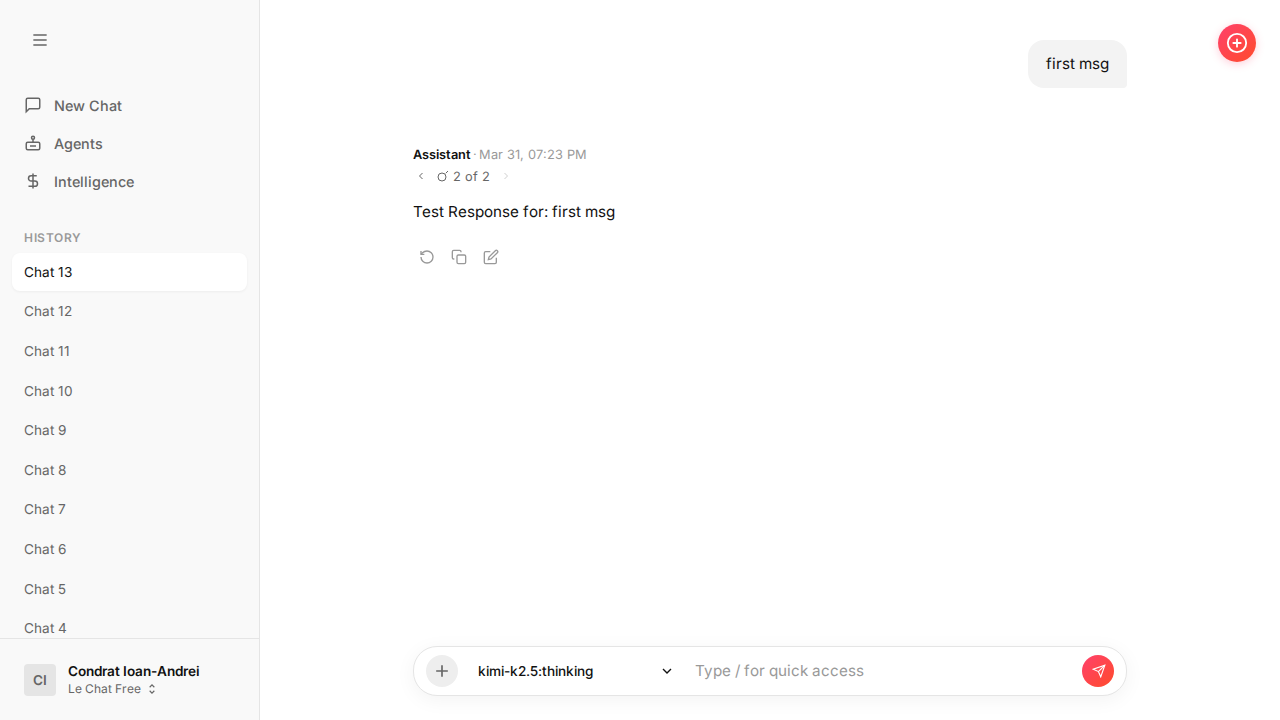
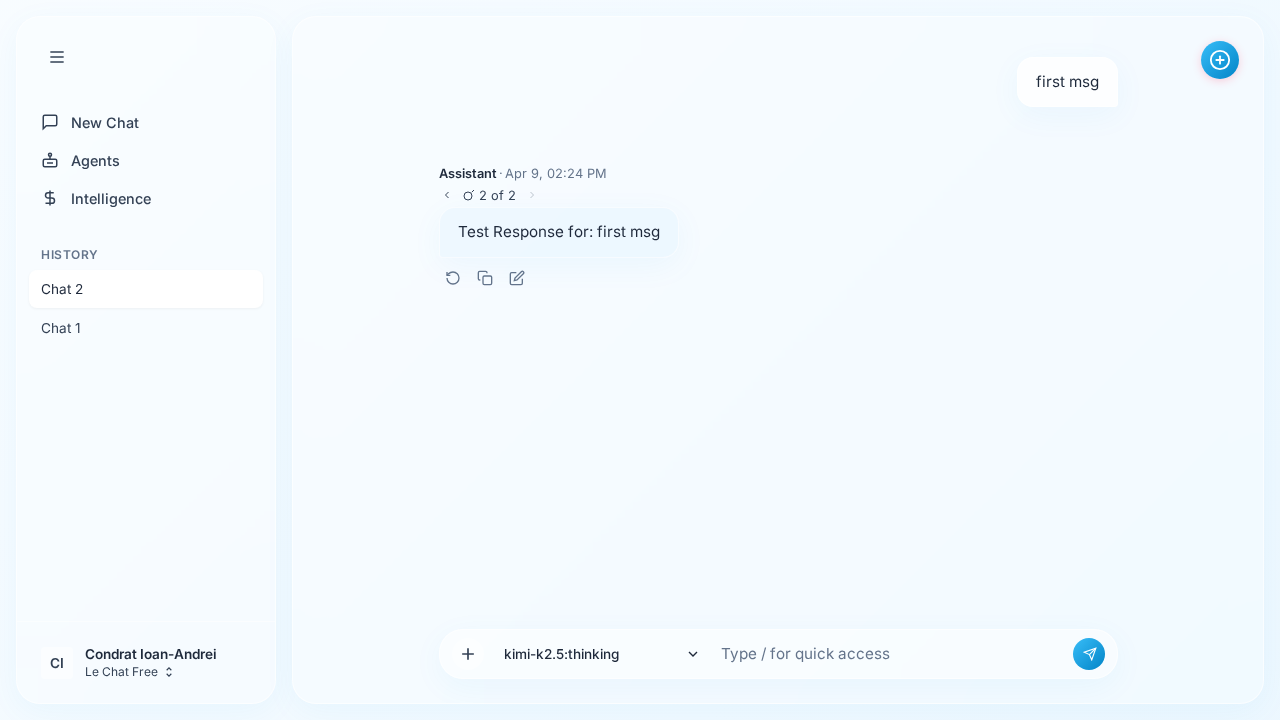
feat(ui): implement modern cold glassmorphism design
- Refactor global CSS variables to cool, icy color palette
- Add animated gradient background shift to body
- Implement floating, detached sidebar and chat area using grid gaps
- Update input console, message bubbles, context menu, and modals with glassmorphism effects (backdrop-filter, semi-transparent backgrounds, subtle white borders)

diff --git a/static/style.css b/static/style.css
@@ -1,16 +1,25 @@
 :root {
-    --bg-color: #ffffff;
-    --sidebar-bg: #f9f9f9;
-    --border-color: #e5e5e5;
-    --text-primary: #111111;
-    --text-secondary: #666666;
-    --text-muted: #999999;
-    --accent-color: #ff4b2b;
-    --gradient-start: #ff416c;
-    --gradient-end: #ff4b2b;
-    --hover-bg: #eeeeee;
-    --user-msg-bg: #f3f3f3;
-    --ai-msg-bg: #ffffff;
+    --bg-color: #e0f2fe;
+    --sidebar-bg: rgba(255, 255, 255, 0.4);
+    --border-color: rgba(255, 255, 255, 0.5);
+    --text-primary: #1e293b;
+    --text-secondary: #334155;
+    --text-muted: #64748b;
+    --accent-color: #0ea5e9;
+    --gradient-start: #38bdf8;
+    --gradient-end: #0284c7;
+    --hover-bg: rgba(255, 255, 255, 0.4);
+
+    /* Glassmorphism Variables */
+    --glass-bg: rgba(255, 255, 255, 0.25);
+    --glass-border: rgba(255, 255, 255, 0.6);
+    --glass-shadow: 0 8px 32px 0 rgba(14, 165, 233, 0.05);
+    --glass-blur: blur(16px);
+
+    --user-msg-glass: rgba(255, 255, 255, 0.65);
+    --ai-msg-glass: rgba(224, 242, 254, 0.45);
+    --overlay-glass-bg: rgba(255, 255, 255, 0.75);
+
     --error-bg: rgba(248, 81, 73, 0.1);
     --error-color: #d73a49;
     --danger-color: #e53935;
@@ -23,9 +32,17 @@
     padding: 0;
 }
 
+@keyframes bgGradientShift {
+    0% { background-position: 0% 50%; }
+    50% { background-position: 100% 50%; }
+    100% { background-position: 0% 50%; }
+}
+
 body {
     font-family: var(--font-family);
-    background-color: var(--bg-color);
+    background: linear-gradient(-45deg, #e0f2fe, #f0f9ff, #ffffff, #e0f2fe);
+    background-size: 400% 400%;
+    animation: bgGradientShift 15s ease infinite;
     color: var(--text-primary);
     overflow: hidden;
     height: 100vh;
@@ -34,8 +51,10 @@ body {
 .app-container {
     display: grid;
     grid-template-columns: 260px 1fr;
-    height: 100vh;
-    width: 100vw;
+    height: calc(100vh - 32px);
+    width: calc(100vw - 32px);
+    margin: 16px;
+    gap: 16px;
     transition: grid-template-columns 0.3s ease;
 }
 
@@ -47,15 +66,19 @@ body {
    Sidebar
    ========================================================================= */
 .sidebar {
-    background-color: var(--sidebar-bg);
-    border-right: 1px solid var(--border-color);
+    background: var(--glass-bg);
+    backdrop-filter: var(--glass-blur);
+    -webkit-backdrop-filter: var(--glass-blur);
+    border: 1px solid var(--glass-border);
+    box-shadow: var(--glass-shadow);
+    border-radius: 24px;
     display: flex;
     flex-direction: column;
     justify-content: space-between;
     height: 100%;
     overflow: hidden;
     white-space: nowrap;
-    transition: opacity 0.2s ease, visibility 0.2s ease, border-color 0.2s ease;
+    transition: opacity 0.2s ease, visibility 0.2s ease, border-color 0.2s ease, transform 0.3s ease;
 }
 
 .app-container.sidebar-closed .sidebar {
@@ -285,10 +308,12 @@ body {
 .context-menu {
     position: fixed;
     z-index: 500;
-    background: var(--bg-color);
-    border: 1px solid var(--border-color);
+    background: var(--overlay-glass-bg);
+    backdrop-filter: var(--glass-blur);
+    -webkit-backdrop-filter: var(--glass-blur);
+    border: 1px solid var(--glass-border);
     border-radius: 10px;
-    box-shadow: 0 4px 16px rgba(0, 0, 0, 0.10), 0 1px 4px rgba(0, 0, 0, 0.06);
+    box-shadow: 0 8px 32px rgba(14, 165, 233, 0.15);
     padding: 4px;
     min-width: 160px;
     display: none;
@@ -480,8 +505,13 @@ body {
 .chat-area {
     display: flex;
     flex-direction: column;
-    height: 100vh;
-    background-color: var(--bg-color);
+    height: 100%;
+    background: var(--glass-bg);
+    backdrop-filter: var(--glass-blur);
+    -webkit-backdrop-filter: var(--glass-blur);
+    border: 1px solid var(--glass-border);
+    box-shadow: var(--glass-shadow);
+    border-radius: 24px;
     position: relative;
     overflow: hidden;
 }
@@ -590,7 +620,11 @@ body {
 }
 
 .message.user .message-content {
-    background-color: var(--user-msg-bg);
+    background: var(--user-msg-glass);
+    backdrop-filter: var(--glass-blur);
+    -webkit-backdrop-filter: var(--glass-blur);
+    border: 1px solid var(--glass-border);
+    box-shadow: var(--glass-shadow);
     color: var(--text-primary);
     padding: 12px 18px;
     border-radius: 16px;
@@ -598,9 +632,15 @@ body {
 }
 
 .message.ai .message-content {
-    background-color: transparent;
+    background: var(--ai-msg-glass);
+    backdrop-filter: var(--glass-blur);
+    -webkit-backdrop-filter: var(--glass-blur);
+    border: 1px solid var(--glass-border);
+    box-shadow: var(--glass-shadow);
     color: var(--text-primary);
-    padding: 12px 0;
+    padding: 12px 18px;
+    border-radius: 16px;
+    border-bottom-left-radius: 4px;
 }
 
 .message.error .message-content {
@@ -616,11 +656,11 @@ body {
    ========================================================================= */
 .input-wrapper {
     position: absolute;
-    bottom: 0;
+    bottom: 24px;
     left: 0;
     right: 0;
-    padding: 24px 15%;
-    background: linear-gradient(to top, rgba(255, 255, 255, 1) 60%, rgba(255, 255, 255, 0));
+    padding: 0 15%;
+    background: transparent;
     pointer-events: none;
     display: flex;
     justify-content: center;
@@ -630,10 +670,12 @@ body {
     pointer-events: auto;
     width: 100%;
     max-width: 768px;
-    background: #ffffff;
-    border: 1px solid var(--border-color);
+    background: var(--glass-bg);
+    backdrop-filter: var(--glass-blur);
+    -webkit-backdrop-filter: var(--glass-blur);
+    border: 1px solid var(--glass-border);
+    box-shadow: var(--glass-shadow);
     border-radius: 24px;
-    box-shadow: 0 4px 20px rgba(0, 0, 0, 0.05);
     display: flex;
     align-items: center;
     padding: 8px 12px;
@@ -642,8 +684,8 @@ body {
 }
 
 .floating-input-bar:focus-within {
-    border-color: #d0d0d0;
-    box-shadow: 0 4px 24px rgba(0, 0, 0, 0.08);
+    border-color: rgba(255, 255, 255, 0.9);
+    box-shadow: 0 8px 32px 0 rgba(14, 165, 233, 0.15);
 }
 
 .add-btn {
@@ -839,12 +881,15 @@ body {
 }
 
 .modal-content {
-    background: var(--bg-color);
+    background: var(--overlay-glass-bg);
+    backdrop-filter: var(--glass-blur);
+    -webkit-backdrop-filter: var(--glass-blur);
+    border: 1px solid var(--glass-border);
     width: 400px;
     max-width: 90%;
     border-radius: 16px;
     padding: 24px;
-    box-shadow: 0 10px 40px rgba(0, 0, 0, 0.1);
+    box-shadow: 0 16px 64px rgba(14, 165, 233, 0.15);
     display: flex;
     flex-direction: column;
     gap: 20px;
